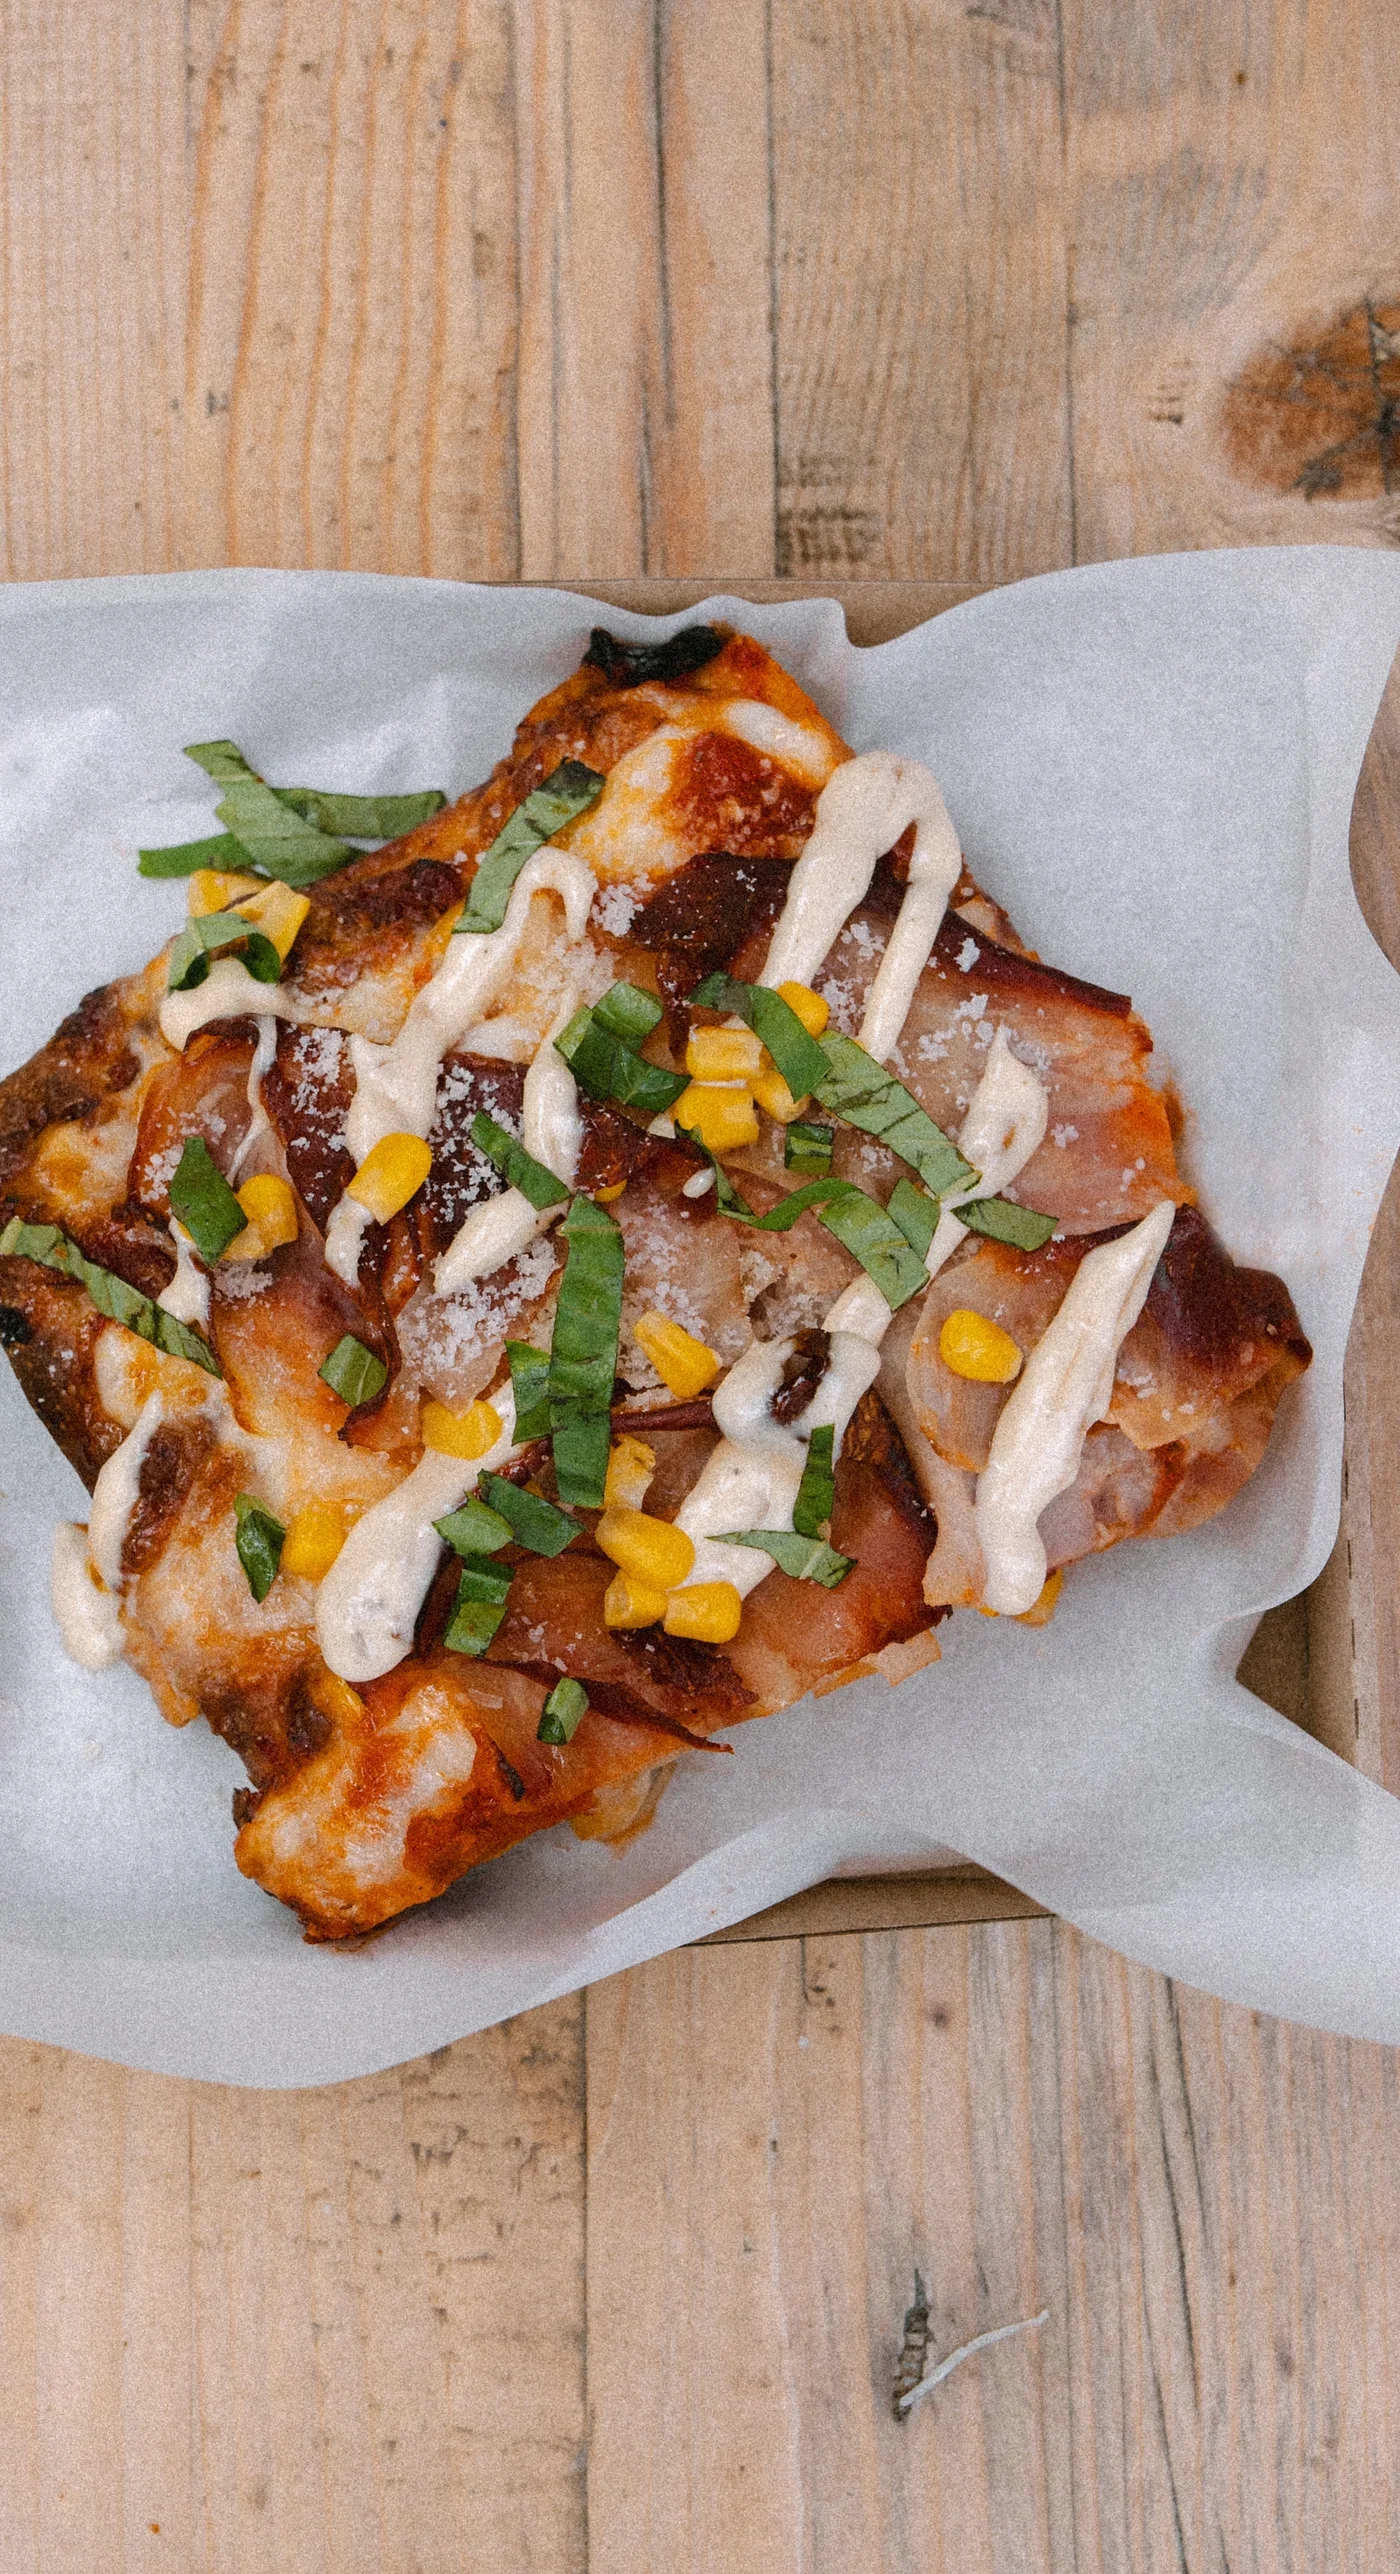
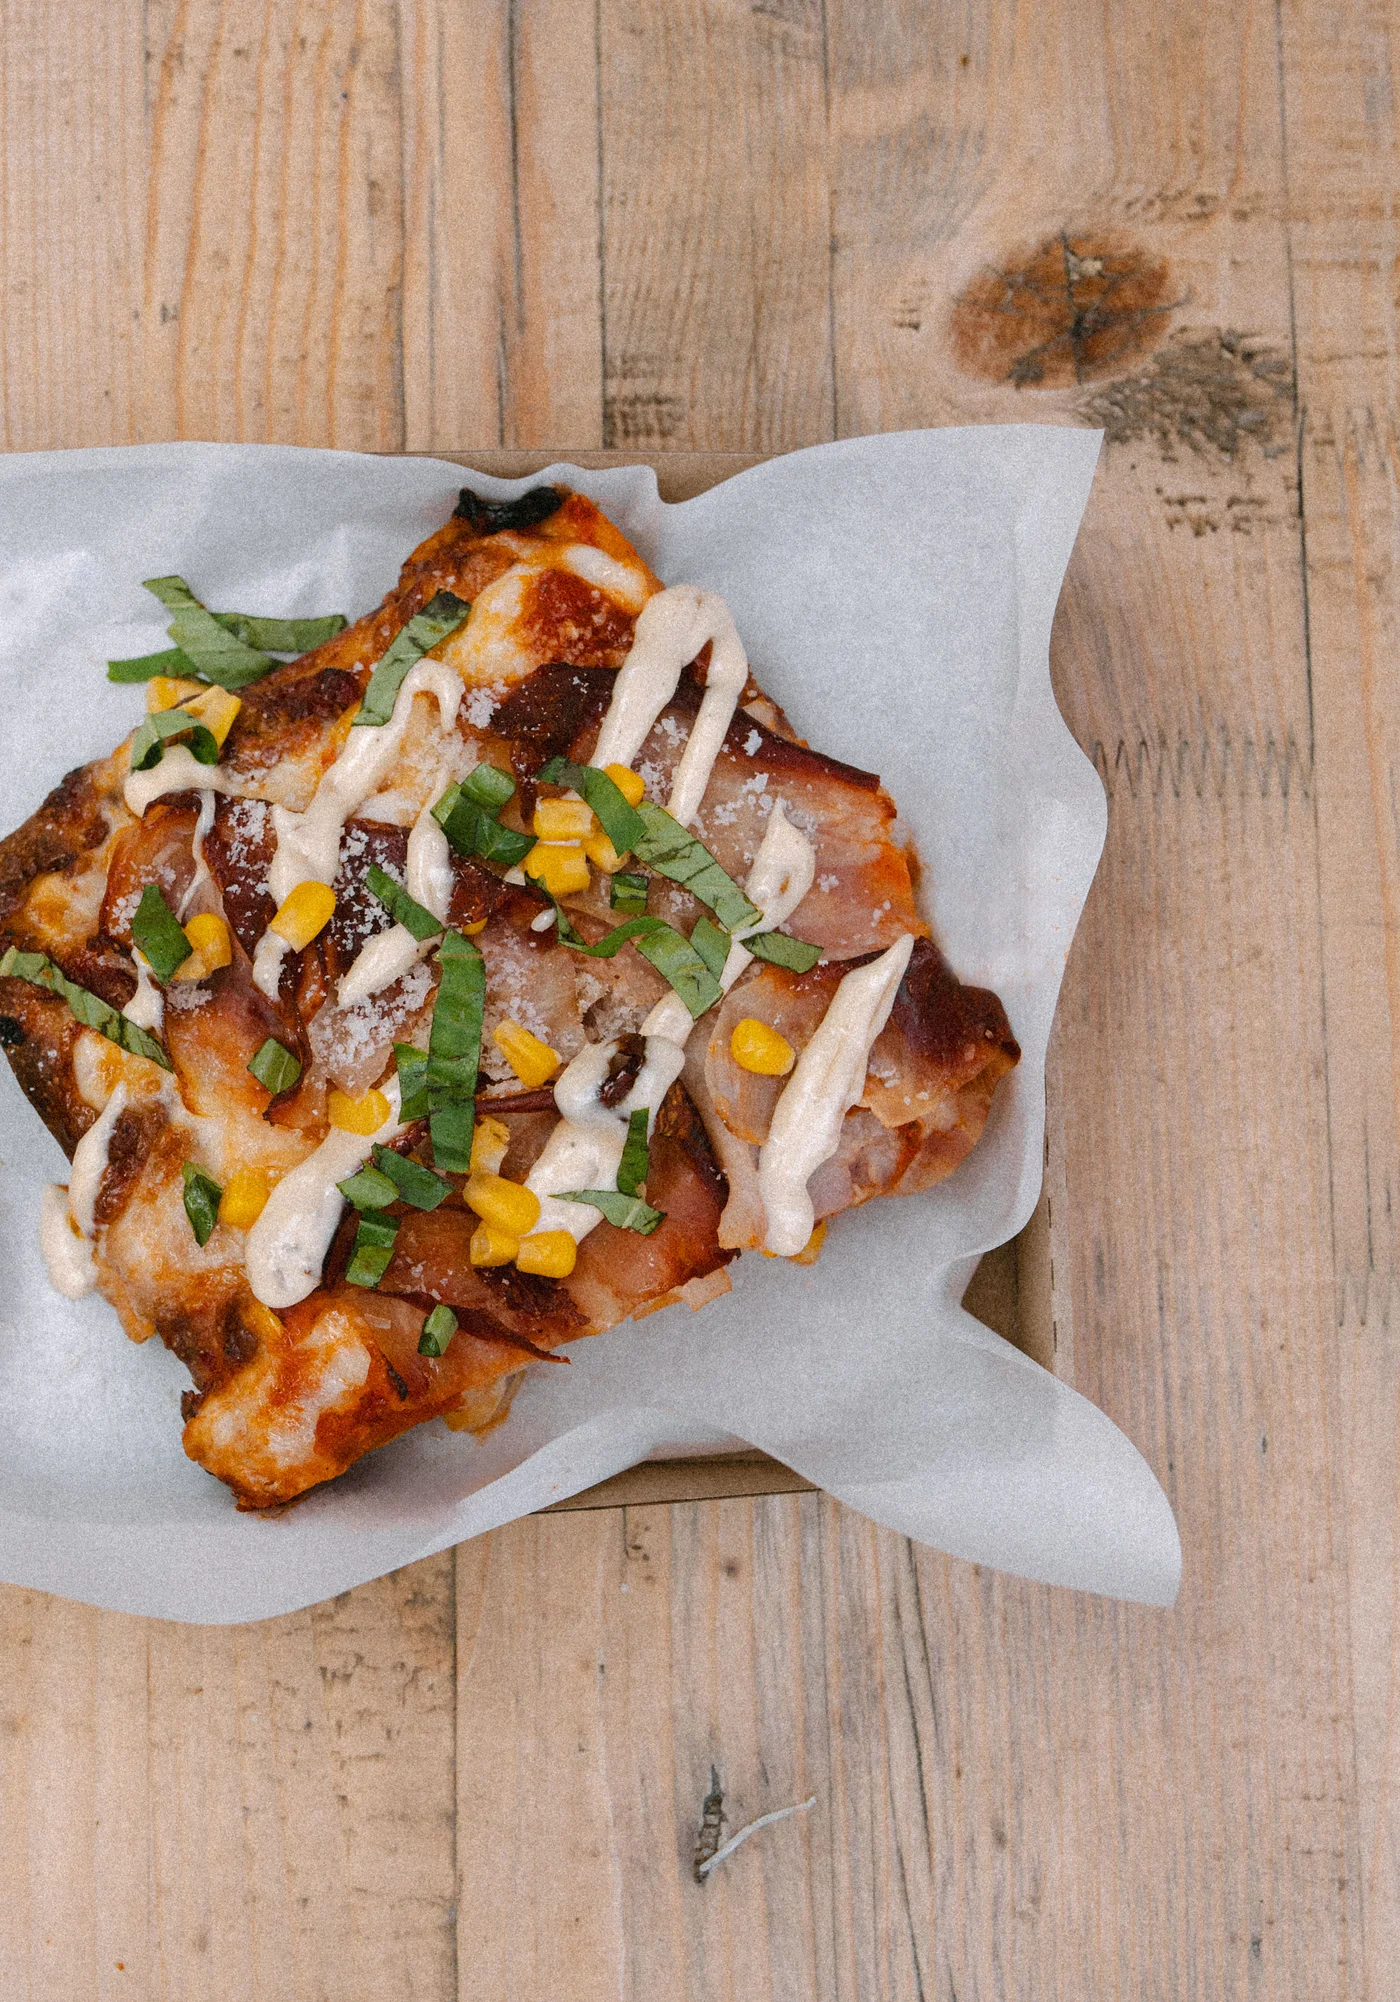
Fix Menu card polish and Style section photo cropping
Menu: looser crops on the three product photos (more breathing room,
less edge-to-edge zoom), bigger dominant product-name text, and
equal-height cards in a straight row (removed the offset that read as
misalignment rather than intentional asymmetry).

Style: photo now sits edge-to-edge at its exact 2:3 aspect ratio
instead of being forced into a landscape full-bleed crop, which was
cutting the shot down to a single pizza box. All three boxes stay
visible while the photo still reads as dominant via sheer scale.

diff --git a/src/components/home/Style.tsx b/src/components/home/Style.tsx
@@ -4,48 +4,44 @@ import { MagneticButton } from "@/components/motion/MagneticButton";
 
 export function Style() {
   return (
-    <section className="bg-ink px-6 py-24 text-cream">
-      <div className="mx-auto grid max-w-6xl items-center gap-12 md:grid-cols-[3fr_2fr]">
+    <section className="flex flex-col bg-ink text-cream md:flex-row md:items-stretch">
+      <div className="relative aspect-[2/3] w-full md:aspect-[2/3] md:w-[440px] md:shrink-0">
+        <Image
+          src="/images/style/three-boxes.webp"
+          alt="Three Pizza Yolo Detroit Style Pizza boxes with dips, top down — Trio, Pepperoni and Ham & Corn"
+          fill
+          sizes="(min-width: 768px) 440px, 100vw"
+          className="object-cover"
+        />
+      </div>
+      <div className="flex flex-1 flex-col justify-center px-6 py-16 md:px-12 md:py-24">
         <Reveal>
-          <div className="relative mx-auto aspect-[2/3] w-full max-w-lg overflow-hidden rounded-2xl md:-rotate-2">
-            <Image
-              src="/images/style/three-boxes.webp"
-              alt="Three Pizza Yolo Detroit Style Pizza boxes with dips, top down — Trio, Pepperoni and Ham & Corn side by side"
-              fill
-              sizes="(min-width: 768px) 45vw, 90vw"
-              className="object-cover"
-            />
-          </div>
+          <p className="text-sm font-semibold uppercase tracking-wide text-brand-light">
+            Our Style
+          </p>
         </Reveal>
-        <div className="space-y-5">
-          <Reveal>
-            <p className="text-sm font-semibold uppercase tracking-wide text-brand-light">
-              Our Style
-            </p>
-          </Reveal>
-          <Reveal delay={0.05}>
-            <h2 className="font-display text-5xl leading-[0.95] md:text-6xl">
-              Pizza Shouldn&apos;t Be Round.
-              <br />
-              Ours Isn&apos;t.
-            </h2>
-          </Reveal>
-          <Reveal delay={0.1}>
-            <p className="max-w-md text-lg text-cream/80">
-              New York Sicilian roots, Detroit in the pan. 48 hours of cold
-              fermentation for a light, airy dough — crisped in cheese at
-              the edge, finished with Italian ingredients.
-            </p>
-          </Reveal>
-          <Reveal delay={0.15}>
-            <MagneticButton
-              href="#menu"
-              className="inline-block rounded-full bg-brand px-6 py-3 font-semibold text-cream"
-            >
-              Today&apos;s Menu
-            </MagneticButton>
-          </Reveal>
-        </div>
+        <Reveal delay={0.05}>
+          <h2 className="font-display mt-2 text-5xl leading-[0.95] md:text-6xl">
+            Pizza Shouldn&apos;t Be Round.
+            <br />
+            Ours Isn&apos;t.
+          </h2>
+        </Reveal>
+        <Reveal delay={0.1}>
+          <p className="mt-5 max-w-md text-lg text-cream/80">
+            New York Sicilian roots, Detroit in the pan. 48 hours of cold
+            fermentation for a light, airy dough — crisped in cheese at
+            the edge, finished with Italian ingredients.
+          </p>
+        </Reveal>
+        <Reveal delay={0.15}>
+          <MagneticButton
+            href="#menu"
+            className="mt-8 inline-block rounded-full bg-brand px-6 py-3 font-semibold text-cream"
+          >
+            Today&apos;s Menu
+          </MagneticButton>
+        </Reveal>
       </div>
     </section>
   );

diff --git a/src/components/home/Product.tsx b/src/components/home/Product.tsx
@@ -32,35 +32,35 @@ export function Product() {
       <Reveal>
         <h2 className="font-display mb-12 text-4xl">Today&apos;s Menu</h2>
       </Reveal>
-      <div className="grid gap-8 md:grid-cols-3">
+      <div className="grid items-stretch gap-8 md:grid-cols-3">
         {PRODUCTS.map((product, index) => (
-          <div key={product.name} className={index === 1 ? "md:-translate-y-6" : undefined}>
-            <Reveal delay={index * 0.1}>
-              <motion.div
-                whileHover={{ y: -8 }}
-                transition={{ duration: 0.3, ease: "easeOut" }}
-                className="space-y-3 rounded-2xl bg-white p-6 shadow-md shadow-ink/5 transition-shadow duration-300 hover:shadow-xl hover:shadow-ink/10"
-              >
-                <div className="relative aspect-square overflow-hidden rounded-xl bg-ink/5">
-                  <Image
-                    src={product.image}
-                    alt={`${product.name} Detroit Style Pizza slice`}
-                    fill
-                    sizes="(min-width: 768px) 33vw, 100vw"
-                    className="object-cover"
-                  />
-                </div>
-                <div className="flex items-center justify-between gap-2">
-                  <h3 className="font-display text-2xl">{product.name}</h3>
-                  <span className="shrink-0 rounded-full bg-brand px-3 py-1 text-sm font-semibold text-cream">
-                    {product.price}
-                  </span>
-                </div>
+          <Reveal key={product.name} delay={index * 0.1} className="h-full">
+            <motion.div
+              whileHover={{ y: -8 }}
+              transition={{ duration: 0.3, ease: "easeOut" }}
+              className="flex h-full flex-col space-y-3 rounded-2xl bg-white p-6 shadow-md shadow-ink/5 transition-shadow duration-300 hover:shadow-xl hover:shadow-ink/10"
+            >
+              <div className="relative aspect-square overflow-hidden rounded-xl bg-ink/5">
+                <Image
+                  src={product.image}
+                  alt={`${product.name} Detroit Style Pizza slice`}
+                  fill
+                  sizes="(min-width: 768px) 33vw, 100vw"
+                  className="object-cover"
+                />
+              </div>
+              <div className="flex items-center justify-between gap-2">
+                <h3 className="font-display text-4xl">{product.name}</h3>
+                <span className="shrink-0 rounded-full bg-brand px-3 py-1 text-sm font-semibold text-cream">
+                  {product.price}
+                </span>
+              </div>
+              <div className="flex-1 space-y-1">
                 <p className="text-ink/70">{product.description}</p>
                 {product.note ? <p className="text-sm text-ink/70">{product.note}</p> : null}
-              </motion.div>
-            </Reveal>
-          </div>
+              </div>
+            </motion.div>
+          </Reveal>
         ))}
       </div>
     </section>